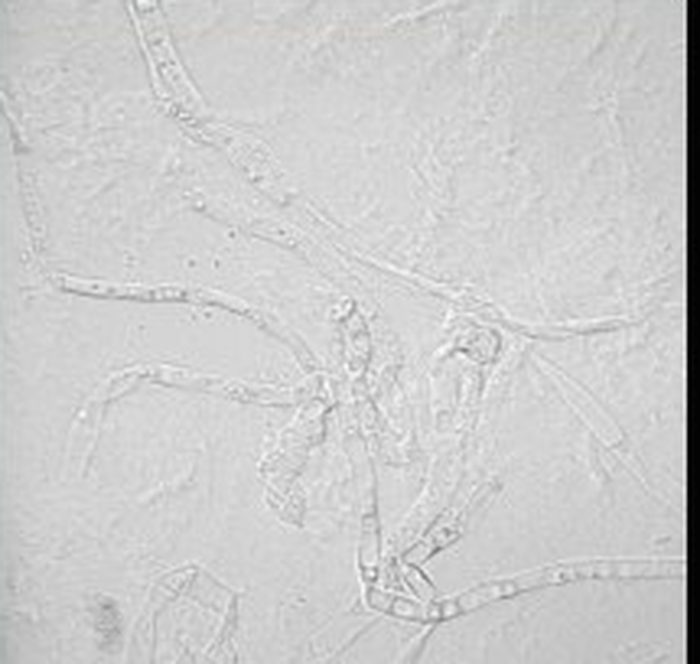
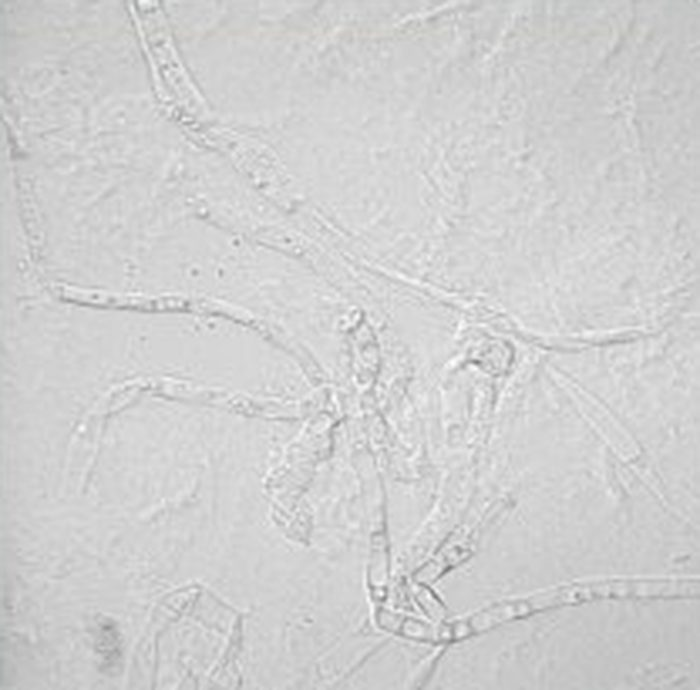
fix(research): correct confocal crop coordinates to eliminate frame bleed
Use gutter-detected uniform column positions (208px each, no gaps) to remove
black RFP column from bf panels and white page frame from merge panels.

Claude-Session: https://claude.ai/code/session_01SjE9RNcRSMe2pfiGPB8aJK

diff --git a/scripts/crop-confocal.py b/scripts/crop-confocal.py
@@ -4,8 +4,11 @@ import os
 
 SRC = "public/img/umass-confocal.jpg"
 OUT = "public/img/confocal"
-ROWS = {"neg": (22, 226), "fo47": (230, 428), "t8996": (436, 640)}
-COLS = {"bf": (170, 385), "rfp": (385, 590), "merge": (590, 815)}
+# Verified by gutter detection + visual contact sheet. Panels are butted with no
+# gutters: content spans x 5-800 as three uniform 210px columns. Cells are inset
+# 1-2px so no neighbouring column or page frame bleeds in.
+ROWS = {"neg": (21, 227), "fo47": (229, 434), "t8996": (436, 641)}
+COLS = {"bf": (171, 379), "rfp": (381, 589), "merge": (591, 799)}
 
 os.makedirs(OUT, exist_ok=True)
 im = Image.open(SRC).convert("RGB")
